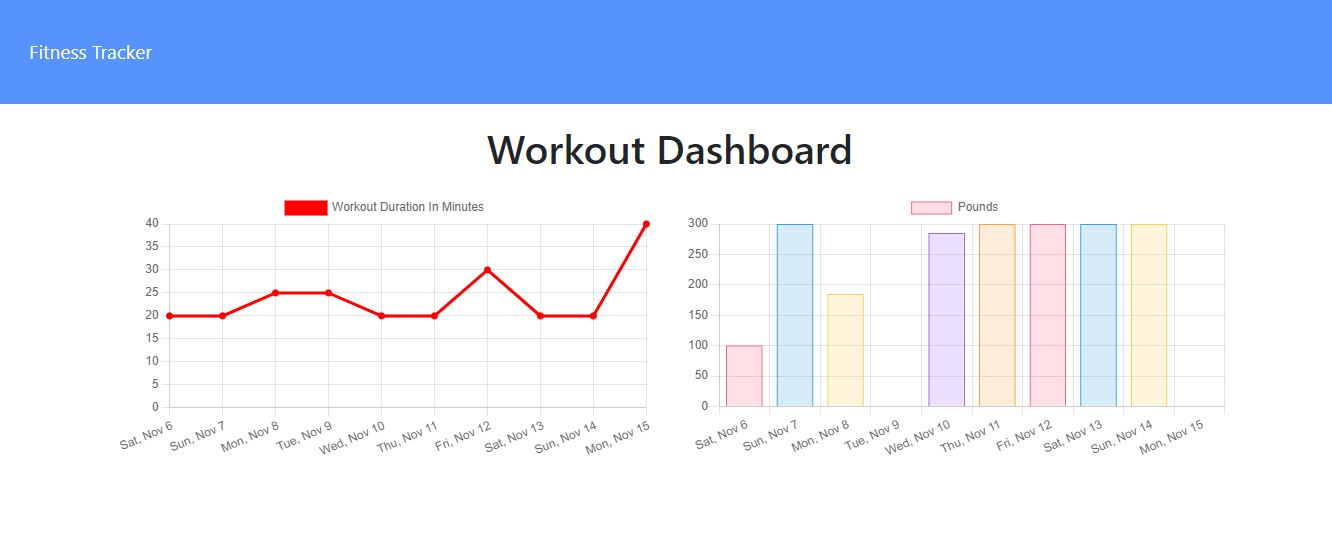
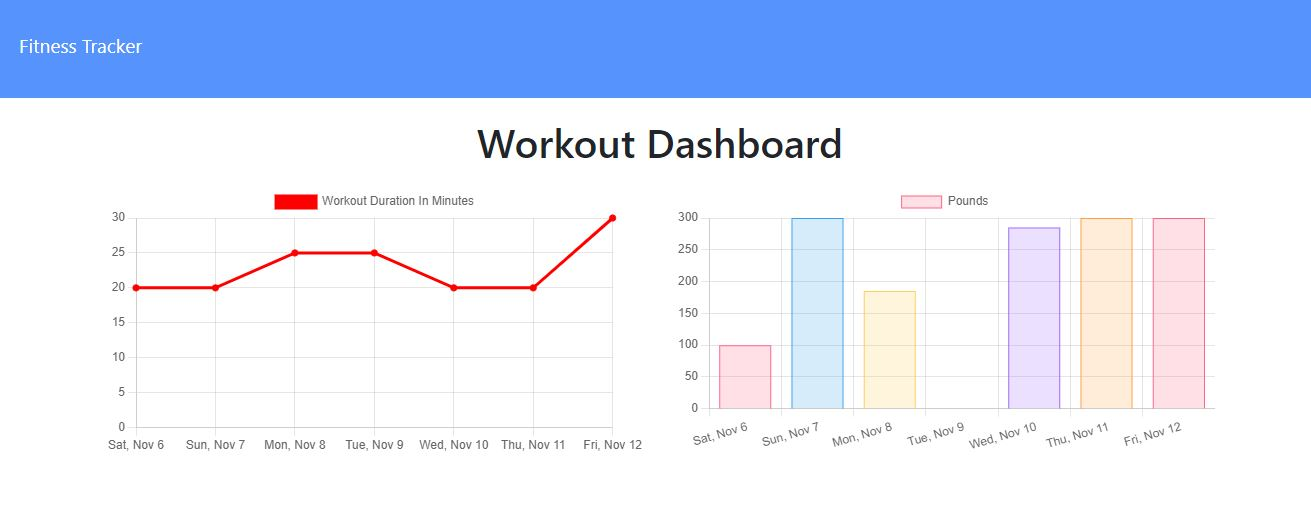
added limit to show last 7 workouts

diff --git a/routes/apiRoutes.js b/routes/apiRoutes.js
@@ -46,6 +46,8 @@ router.post("/api/workouts", ({ body }, res) => {
 // GET WorkoutsInRange
 router.get("/api/workouts/range", (req, res) => {
     db.aggregate([{$addFields:{totalDuration: { $sum: "$exercises.duration"}}}])
+    // show past 7 workouts
+    .limit(7)
     .then((dbWorkout) => {
 	   res.json(dbWorkout);
 	})
@@ -58,4 +60,4 @@ router.get("/api/workouts/range", (req, res) => {
 //export
 module.exports = router;
 
-// **Important:** Look into using a MongoDB aggregate function to dynamically add up and return the total duration for each workout. Check out the [MongoDB documentation on the $addFields](https://docs.mongodb.com/manual/reference/operator/aggregation/addFields/), the [MongoDB documentation on the $sum operator](https://docs.mongodb.com/manual/reference/operator/aggregation/sum/), and the [Mongoose documentation on aggregate functions](https://mongoosejs.com/docs/api.html#aggregate_Aggregate) to learn how it can be accomplished.
+// **Important:** Look into using a MongoDB aggregate function to dynamically add up and return the total duration for each workout. Check out the [MongoDB documentation on the $addFields](https://docs.mongodb.com/manual/reference/operator/aggregation/addFields/), the [MongoDB documentation on the $sum operator](https://docs.mongodb.com/manual/reference/operator/aggregation/sum/), and the [Mongoose documentation on aggregate functions](https://mongoosejs.com/docs/api.html#aggregate_Aggregate) to learn how it can be accomplished. [MongoDB documentation on limit](https://docs.mongodb.com/manual/reference/operator/aggregation/limit/)

diff --git a/README.md b/README.md
@@ -71,7 +71,7 @@ npm start
 ![2](https://user-images.githubusercontent.com/78191579/141654393-9c4033e2-63d3-4094-8592-48e955b1f60d.JPG)
 ![3](https://user-images.githubusercontent.com/78191579/141654396-0564c3bf-8dbd-42fc-850b-cdaa14868534.JPG)
 ![4](https://user-images.githubusercontent.com/78191579/141807987-075ac92d-7efa-41cd-9333-07d0b34f4a81.JPG)
-![5](https://user-images.githubusercontent.com/78191579/141807994-38a1214e-388c-432c-86c0-ddf477593fb2.JPG)
+![5](https://user-images.githubusercontent.com/78191579/141813399-4184eef7-9306-43cd-9204-dc3224daff0a.JPG)
 
 # Testing
 
